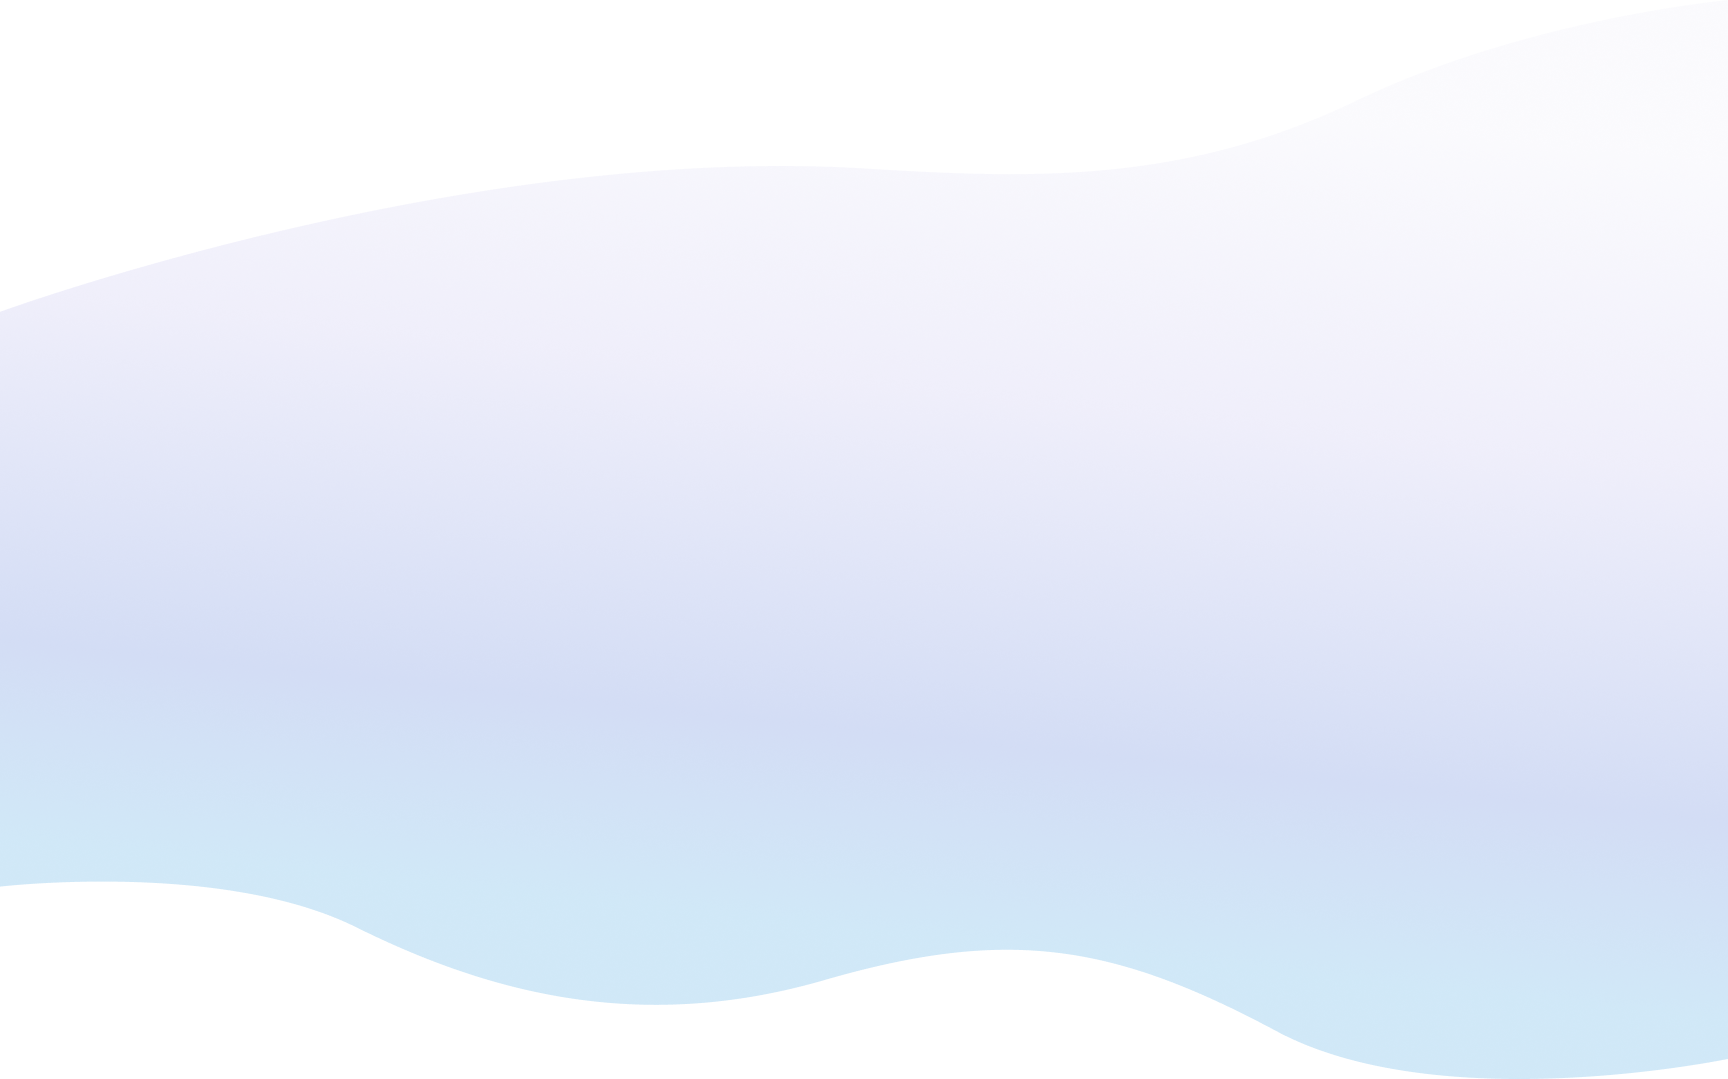
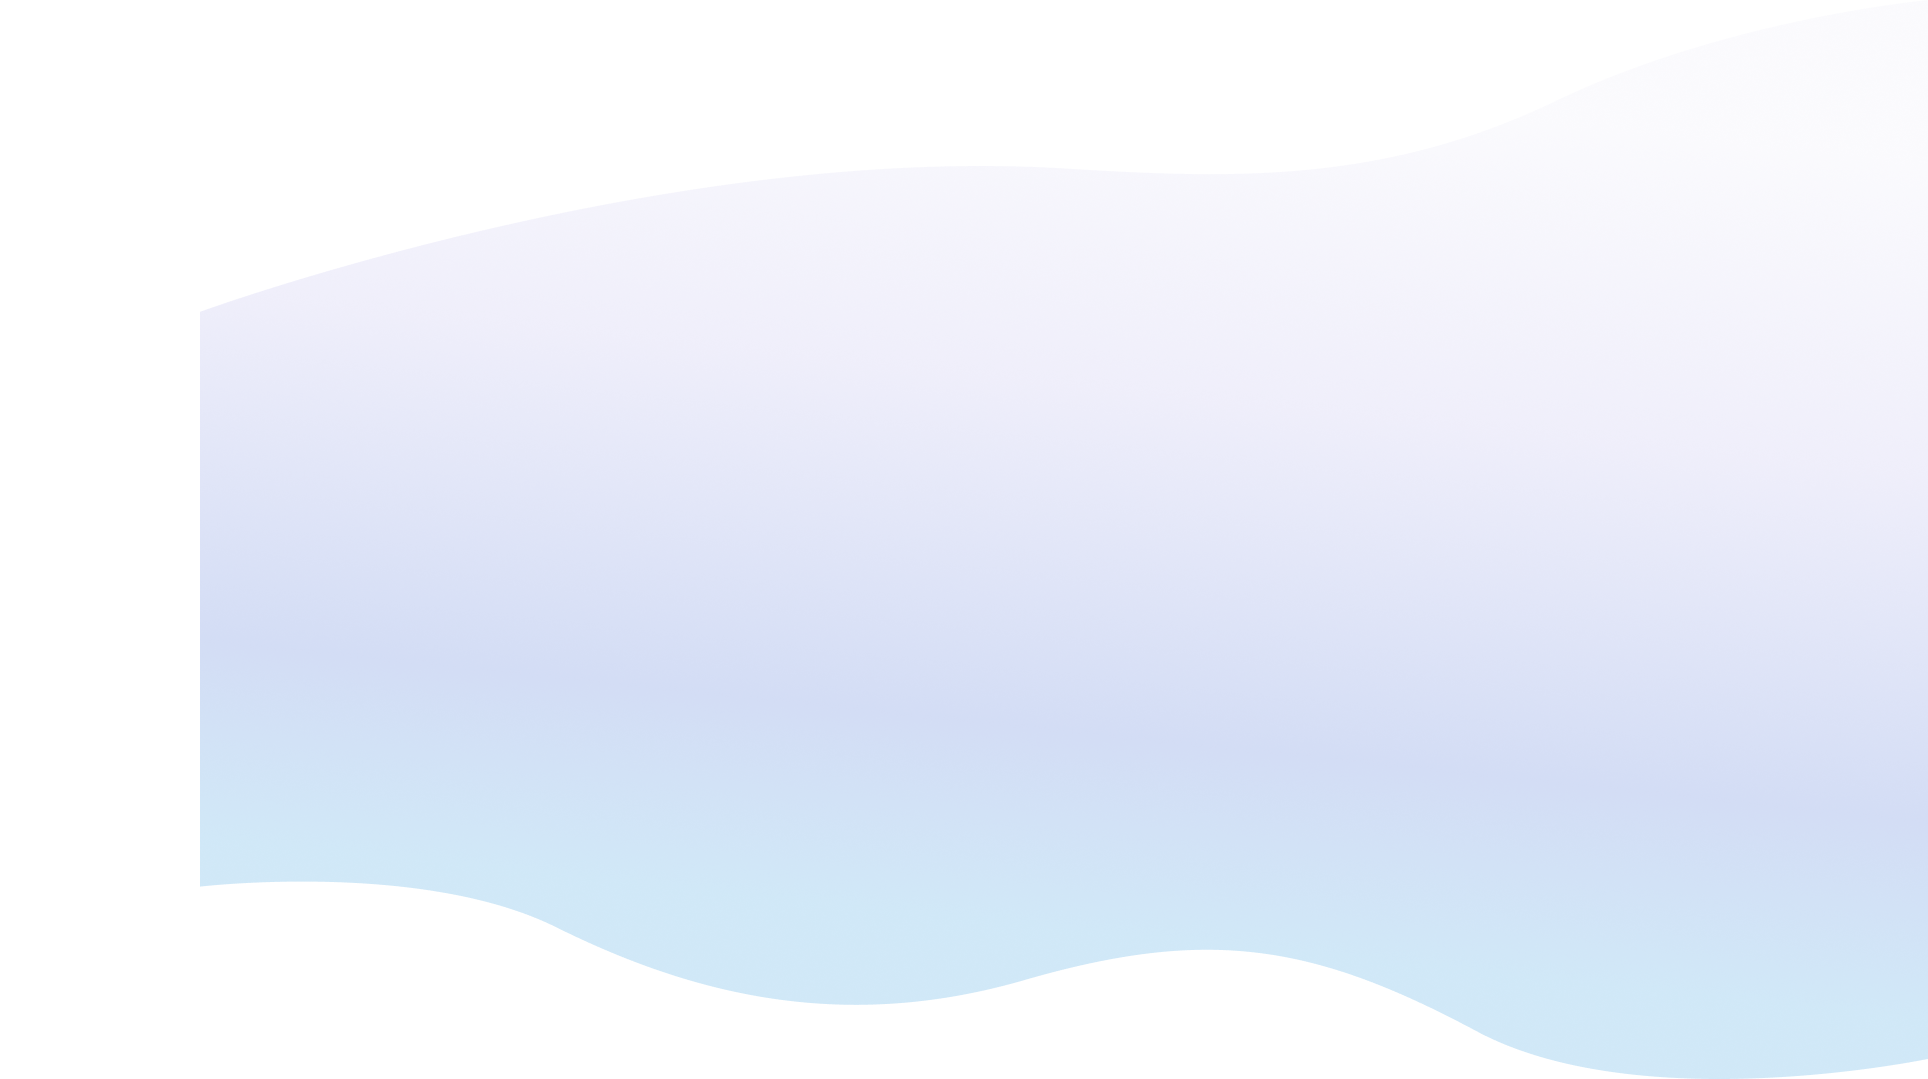
Add files via upload

diff --git a/styles.css b/styles.css
@@ -8,6 +8,7 @@
 
 html {
     scroll-behavior: smooth;
+    overflow-x: hidden;
 }
 
 a{
@@ -17,20 +18,6 @@ a{
 figure {
     margin: 0;
     padding: 0;
-}
-
-::-webkit-scrollbar {
-    background-color: transparent;
-    width: 5px;
-}
-  
-::-webkit-scrollbar-track {
-    background-color: transparent;
-}
-  
-::-webkit-scrollbar-thumb {
-    background: #3a3a3a73;
-    border-radius: 5px;
 }
 
 .purple__gradient {
@@ -168,7 +155,7 @@ HERO
 
 .hero__content, .hero__design {
     width: 50%;
-    min-width: 420px;
+    min-width: 300px;
 }
 
 .hero__design {
@@ -769,7 +756,15 @@ PROJECTS
 .projects__background {
     background-image: url("./assets/projects\ bg.png");
     background-size: cover;
-    background-position: top center;
+    background-repeat: no-repeat;
+    background-position: top right;
+}
+
+.center__projects-wrapper {
+    display: flex;
+    align-items: flex-end;
+    justify-content: center;
+    padding-top: 30%;
 }
 
 .projects__wave {
@@ -850,7 +845,7 @@ FOOTER
 }
 
 .footer__wrapper {
-    margin: 160px auto 0 auto;
+    margin: 0 auto;
     padding: 0 40px;
     display: flex;
     align-items: flex-end;
@@ -918,11 +913,13 @@ FOOTER
 
     .hero__content--title {
         font-size: 35px;
+        margin: 0 auto;
+        max-width: 220px;
     }
 
     .hero__content--text {
         margin: 0 auto;
-        padding: 32px;
+        padding: 32px 16px;
         font-size: 16px;
         max-width: 256px;
     }

diff --git a/index.html b/index.html
@@ -612,7 +612,7 @@
 
     <section id="projects">
         <div class="container projects__background">
-            <div class="row">
+            <div class="row center__projects-wrapper">
                 <div class="projects__wrapper">
                     <div class="projects__graphic">
                         <img src="./assets/Projects Fan.png" alt="" class="projects__image">
